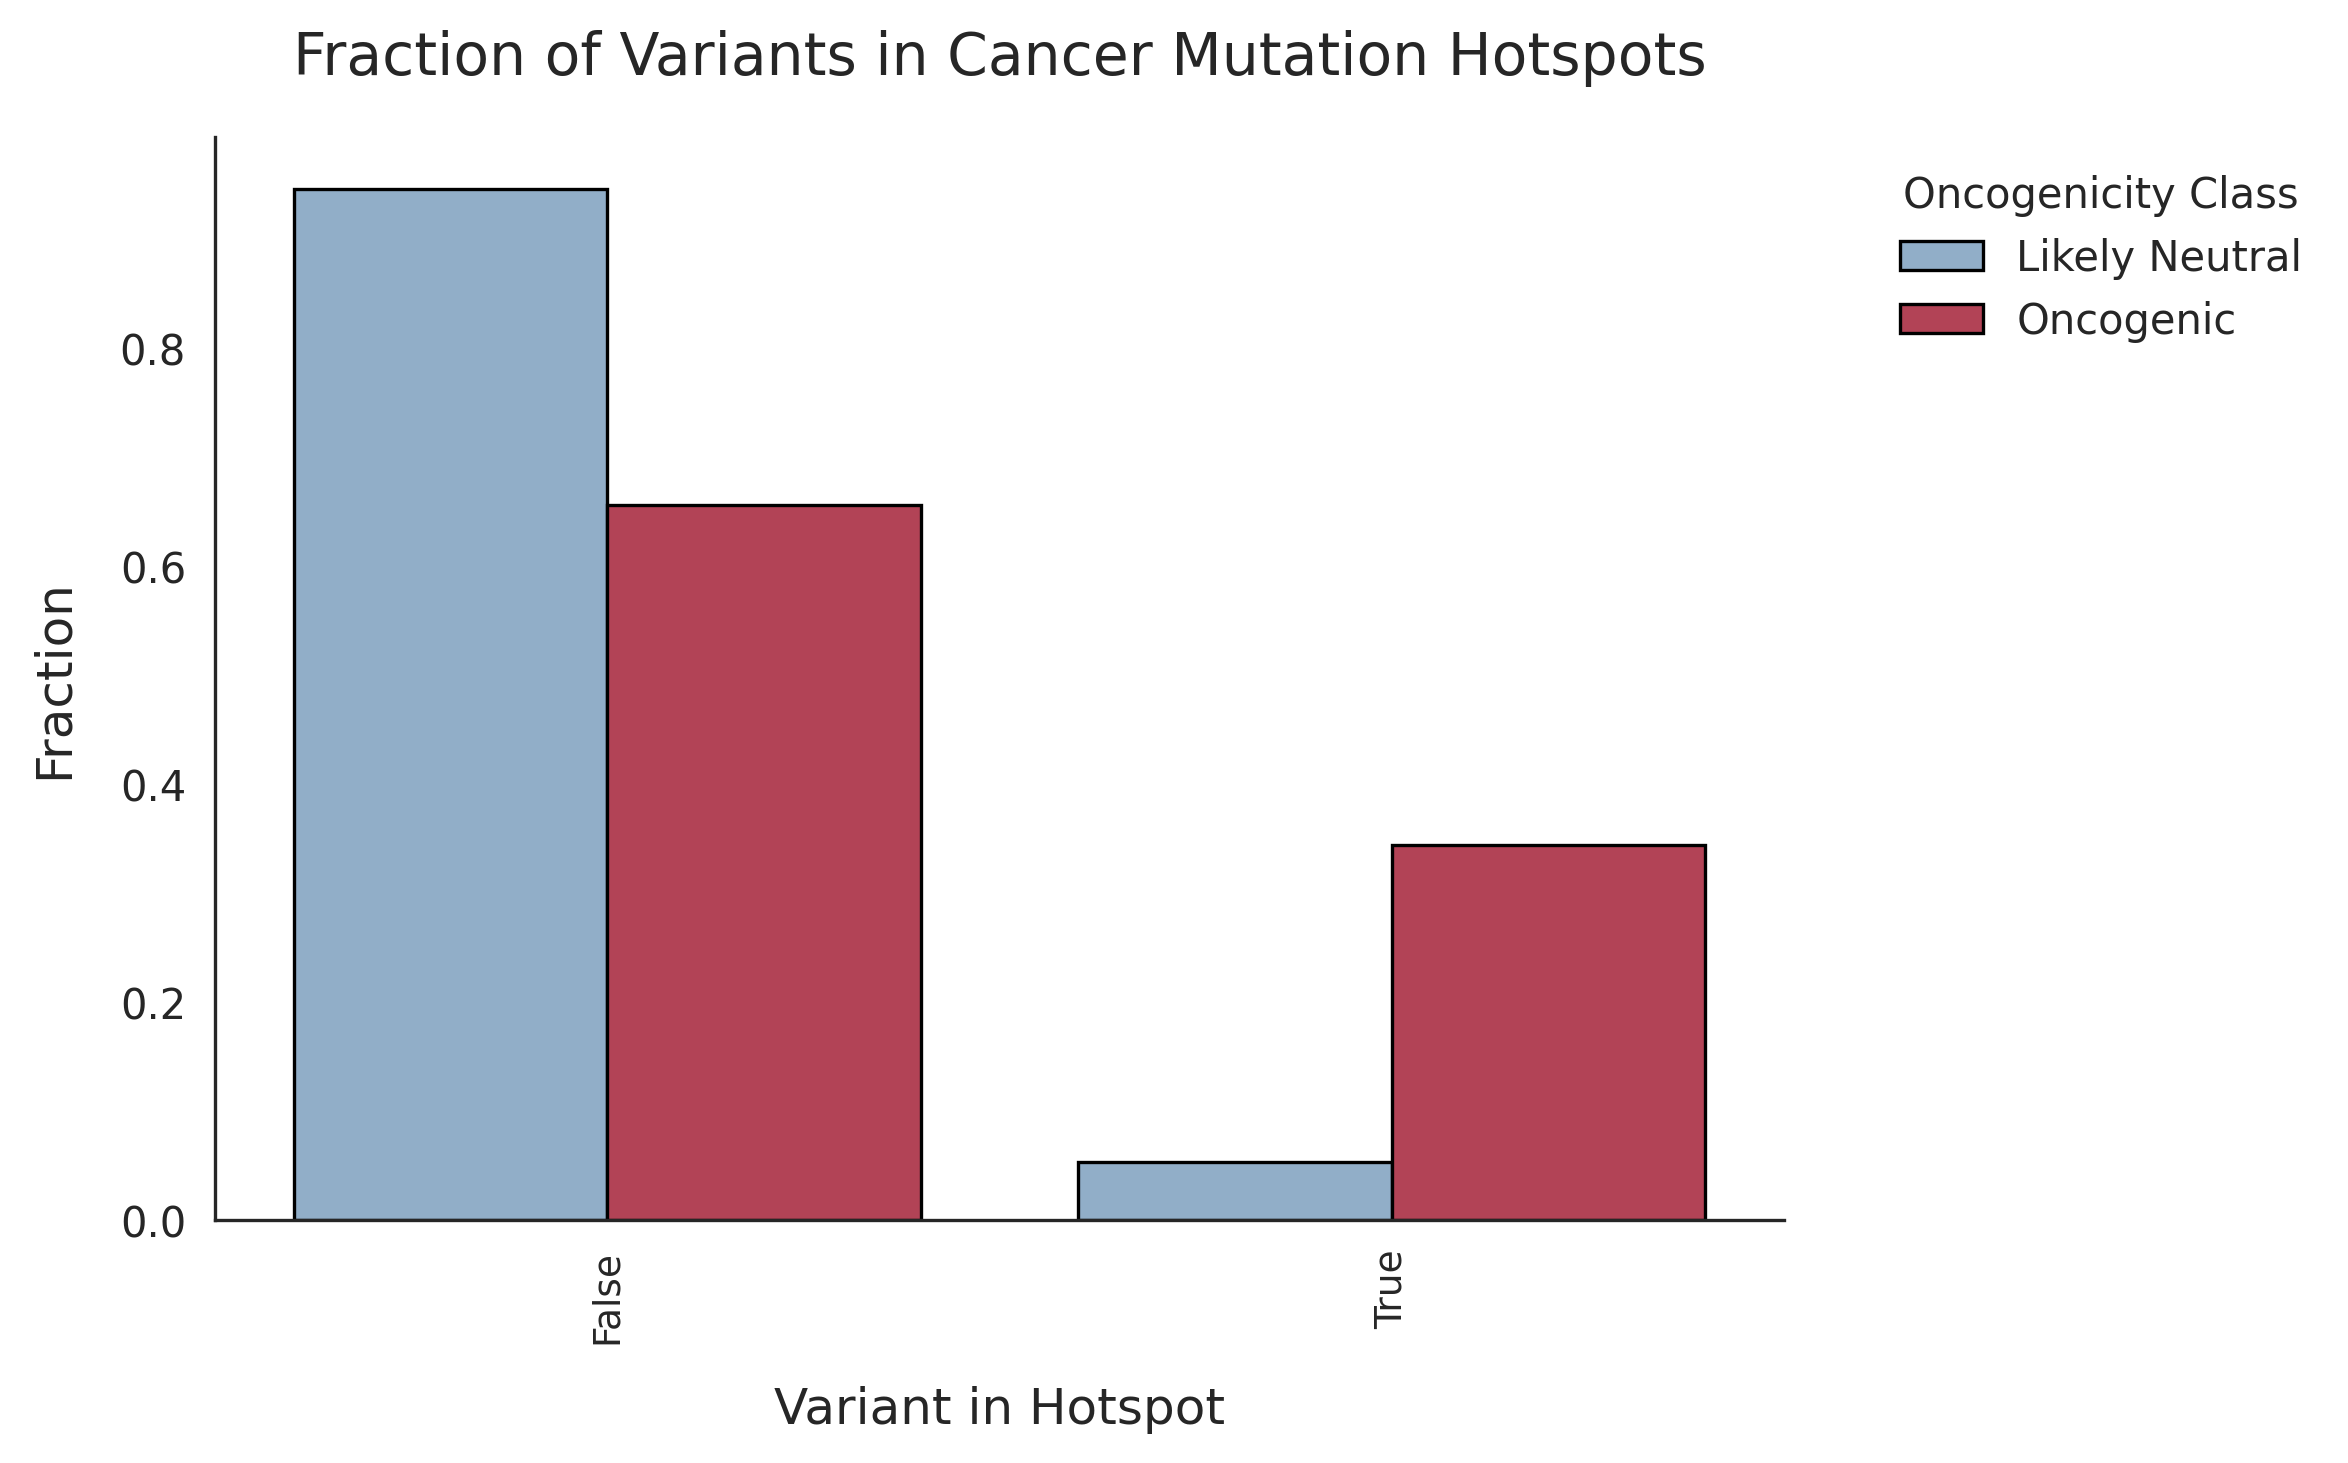
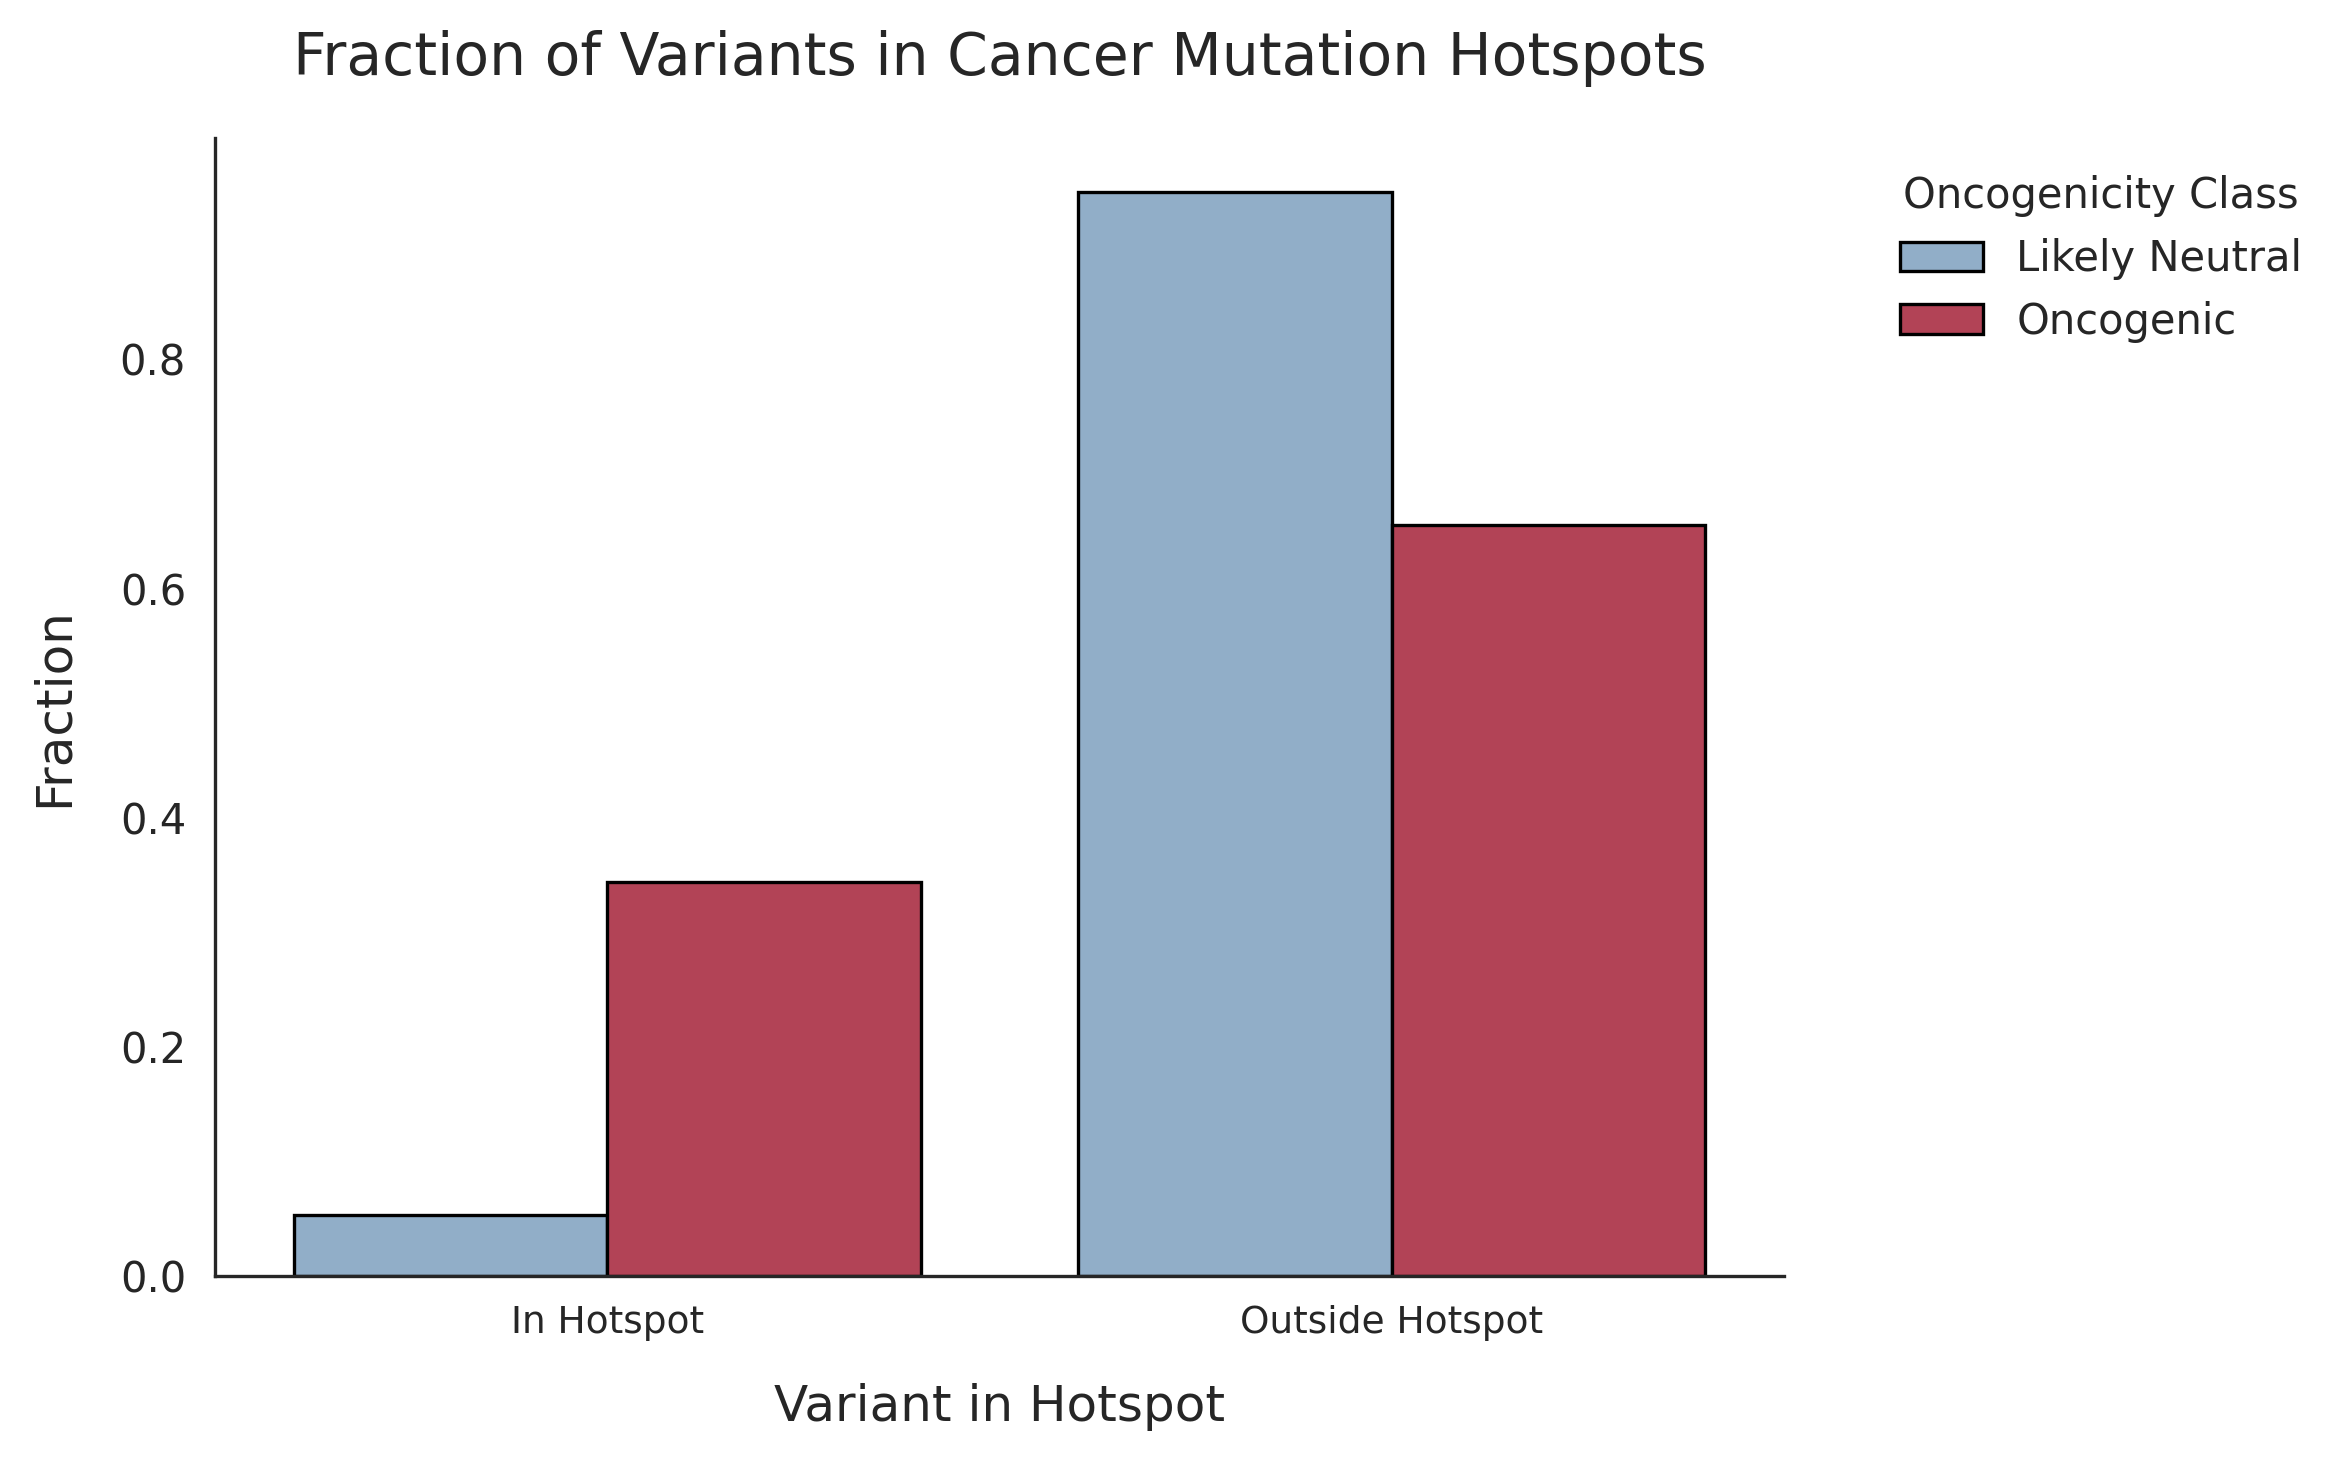
edit x-labels hotspot plot

diff --git a/scripts/EDA/cancerhotspots.py b/scripts/EDA/cancerhotspots.py
@@ -180,9 +180,13 @@ plt.figure(figsize=(8,5))
 
 sns.set_style("white")
 
-sns.barplot(data=counts, 
+counts_plot = counts.copy() 
+counts_plot['In_Hotspot'] = counts_plot['In_Hotspot'].map({True: 'In Hotspot', False: 'Outside Hotspot'})
+
+sns.barplot(data=counts_plot, 
             x="In_Hotspot",
             y="Variant_Count",
+            order=['In Hotspot', 'Outside Hotspot'],
             hue="ONCOGENIC", 
             palette=palette, 
             edgecolor="black",
@@ -193,7 +197,7 @@ sns.despine()
 plt.title("Variants in Cancer Mutation Hotspots", fontsize=14, pad=15)
 plt.xlabel("Variant in Hotspot", fontsize=12, labelpad=10)
 plt.ylabel("Counts", fontsize=12, labelpad=10) 
-plt.xticks(rotation=90, fontsize=9)
+plt.xticks(rotation=0, fontsize=9)
 plt.legend(title="Oncogenicity Class", bbox_to_anchor=(1.05, 1), loc='upper left', frameon=False)
 
 plt.tight_layout() 
@@ -224,9 +228,13 @@ plt.figure(figsize=(8,5))
 
 sns.set_style("white")
 
-sns.barplot(data=counts, 
+counts_plot2 = counts.copy()
+counts_plot2['In_Hotspot'] = counts_plot2['In_Hotspot'].map({True: 'In Hotspot', False: 'Outside Hotspot'})
+
+sns.barplot(data=counts_plot2, 
             x="In_Hotspot",
             y="Fraction",
+            order=['In Hotspot', 'Outside Hotspot'],
             hue="ONCOGENIC",
             palette=palette,
             edgecolor="black",
@@ -237,7 +245,7 @@ sns.despine()
 plt.title("Fraction of Variants in Cancer Mutation Hotspots", fontsize=14, pad=15) 
 plt.xlabel("Variant in Hotspot", fontsize=12, labelpad=10)
 plt.ylabel("Fraction", fontsize=12, labelpad=10)
-plt.xticks(rotation=90, fontsize=9)
+plt.xticks(rotation=0, fontsize=9)
 plt.legend(title="Oncogenicity Class", bbox_to_anchor=(1.05, 1), loc='upper left', frameon=False)
 
 plt.tight_layout()
